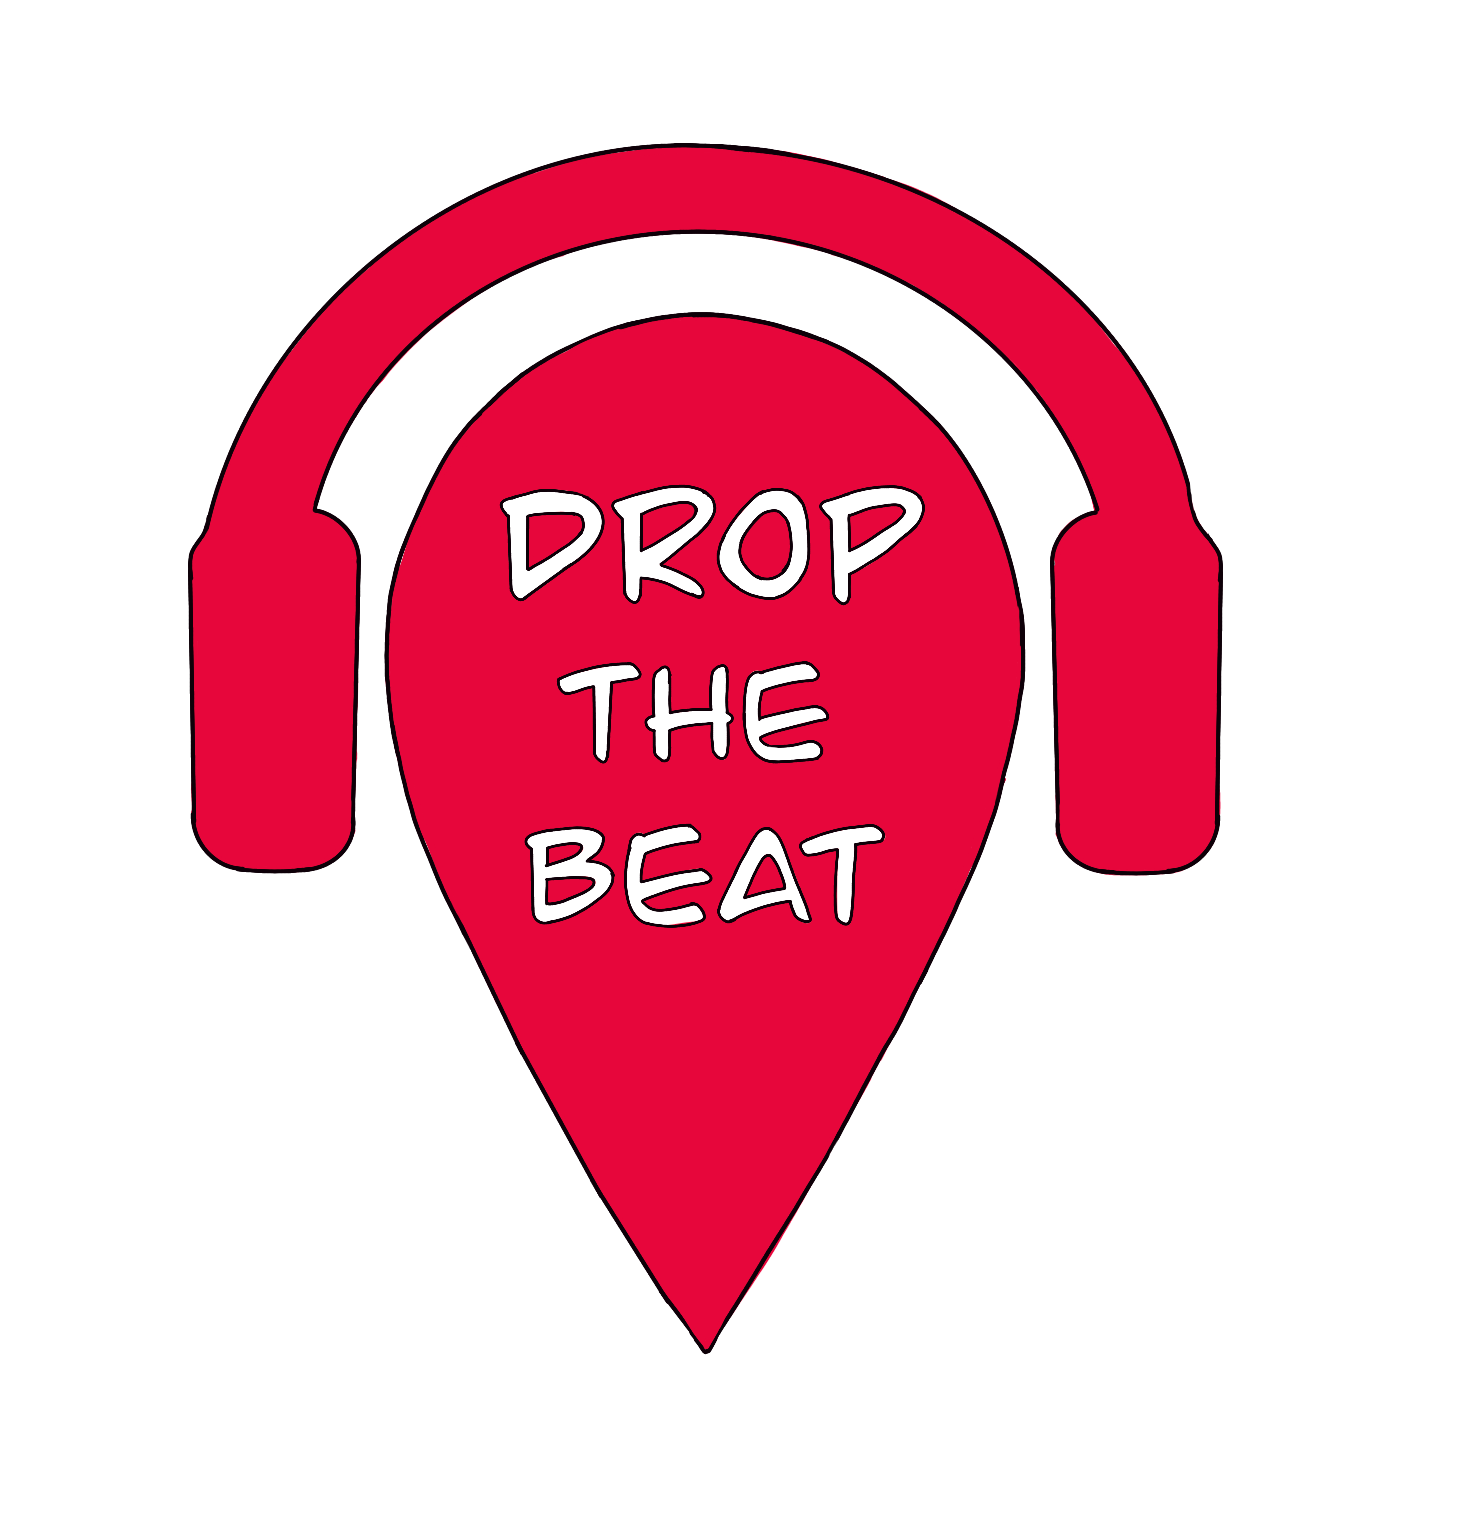
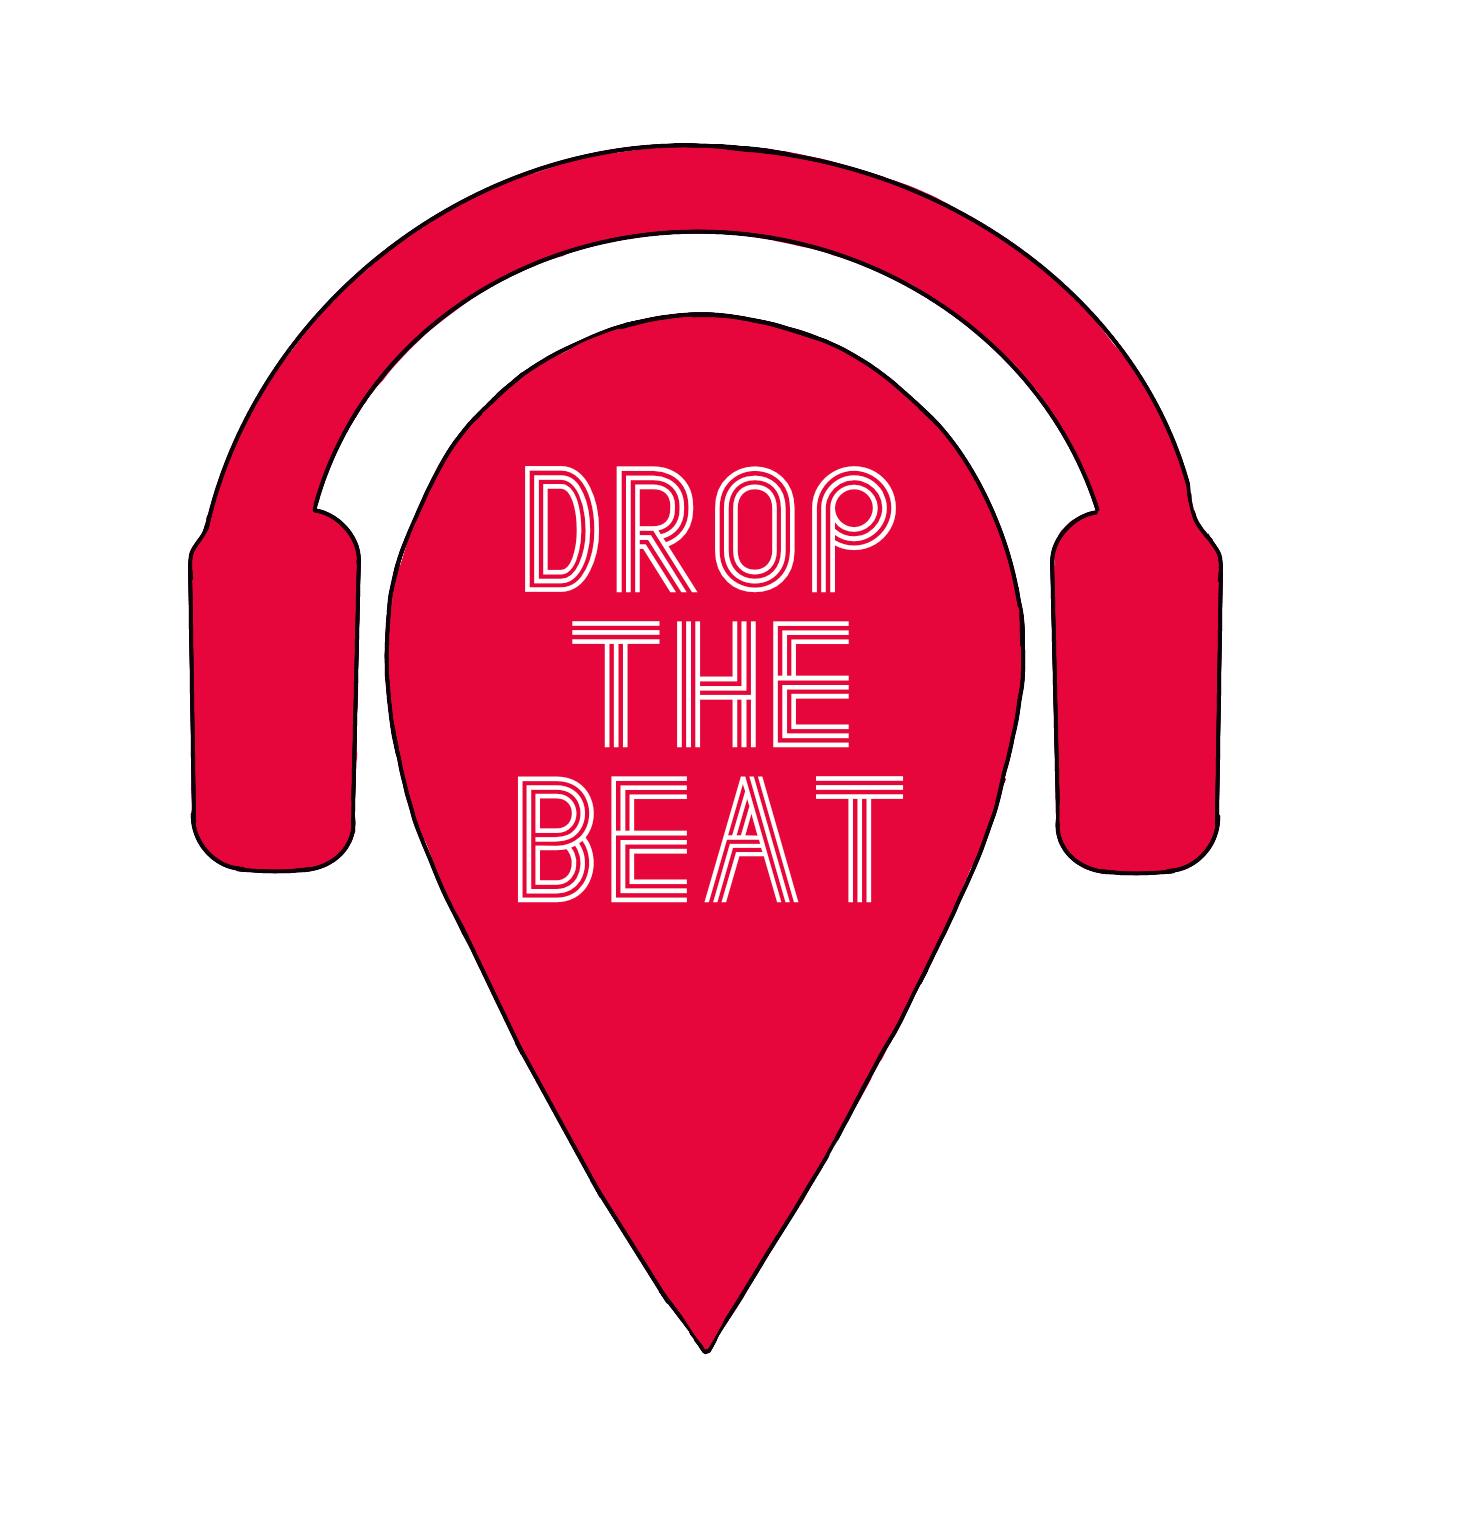
final styles complete

Changed region(s): [[0.3372, 0.2812, 0.6437, 0.625]]

diff --git a/client/components/AddPin.jsx b/client/components/AddPin.jsx
@@ -2,6 +2,7 @@ import React from 'react'
 // import { connect } from 'react-redux'
 import { Link } from 'react-router-dom'
 import { addPins } from '../api/apipins'
+import Header from './Header'
 
 class AddPin extends React.Component {
     state = {
@@ -28,10 +29,11 @@ class AddPin extends React.Component {
     render() {
         return (
             <>
+            <Header />
                 <div className='columns is-centered'>
                     <div className="column is-half">
                        
-                        <h1 className="py-4 is-size-1 has-text-white">Add a Pin</h1>
+                        <h1 className="py-4 is-size-1 has-text-white">Add a song to the map</h1>
                         
                         <div className="field">
                         <label className="has-text-white">Username</label>
@@ -43,15 +45,17 @@ class AddPin extends React.Component {
                                 onChange={this.handleChange}
                             />
                         </div>
-                        <div className="">
-                        <button className="button is-primary is-outlined">
-                        <label className="has-text-white">
-                            <a target="_blank" href="https://open.spotify.com/search">Click here to get Spotify link</a>
-                            </label>
+                        <div className="field">
+                        <button className="button is-medium">   
+                        <span className="icon is-medium">
+                        <i className="fab fa-spotify"></i>
+                        </span>
+                            <a target="_blank" href="https://open.spotify.com/search">
+                        <label className="has-text-white"> <span>Spotify</span></label></a>
                             </button>
                         </div>
                         <div className="field">
-                        <label className="has-text-white">Spotify Link</label>
+                        <label className="has-text-white">Place spotify link here</label>
                             <input
                                 className="input"
                                 type="text"
@@ -83,9 +87,9 @@ class AddPin extends React.Component {
                         <div className="field">
                             <p className="control">
                             <button 
-                                className="button has-background-danger"
+                                className="button has-background"
                                 onClick={this.handleSubmit}><Link to='/map'>
-                                <label className="has-text-white">Add Pin</label></Link>
+                                <label className="has-text-white">Add Song</label></Link>
                             </button>
                             </p>
                         </div>

diff --git a/server/public/index.html b/server/public/index.html
@@ -9,13 +9,13 @@
    integrity="sha512-xodZBNTC5n17Xt2atTPuE1HxjVMSvLVW9ocqUKLsCC5CXdbqCmblAshOMAS6/keqq/sMZMZ19scR4PsZChSR7A=="
    crossorigin=""/>
    <link rel="preconnect" href="https://fonts.gstatic.com">
-   <link href="https://fonts.googleapis.com/css2?family=Happy+Monkey&display=swap" rel="stylesheet">
+   <script src="https://kit.fontawesome.com/edc90d0acc.js" crossorigin="anonymous"></script>
    <link rel="stylesheet" href="./fonts/stylesheet.css">
    <!-- Make sure you put this AFTER Leaflet's CSS -->
   <script src="https://unpkg.com/leaflet@1.7.1/dist/leaflet.js"
   integrity="sha512-XQoYMqMTK8LvdxXYG3nZ448hOEQiglfqkJs1NOQV44cWnUrBc8PkAOcXy20w0vlaXaVUearIOBhiXZ5V3ynxwA=="
   crossorigin=""></script>
-  <title>Drop da Beat</title>
+  <title>Drop the Beat</title>
 </head>
 
 <style>

diff --git a/client/components/Home.jsx b/client/components/Home.jsx
@@ -3,6 +3,7 @@ import { connect } from 'react-redux'
 import Map from './Map'
 import { getPins } from '../api/apipins'
 import Footer from './Footer'
+import Header from './Header'
 
 class Home extends React.Component {
   state = {
@@ -20,6 +21,7 @@ class Home extends React.Component {
     const { pinsCoordinates } = this.state
     return (
       <>
+      <Header />
         <Map pinsCoordinates={pinsCoordinates} />
         <Footer />
       </> 

diff --git a/client/components/App.jsx b/client/components/App.jsx
@@ -18,7 +18,6 @@ class App extends React.Component {
       <>
         <div className="is-fullwidth py-5">
           <main className="container is-fluid">
-            <Header />
             <Route exact path='/' component={Welcome} />
             <Route path='/map' component={Home} />
             <Route path='/form' component={AddPin} />

diff --git a/client/styles/partials/_fonts.scss b/client/styles/partials/_fonts.scss
@@ -2,3 +2,20 @@ h1 {
   font-weight:normal;
   font-style:normal;
 }
+
+.fa-spotify {
+  color:white;
+}
+
+// button {
+//   font-color:white;
+// }
+
+
+//   <button class="button is-large">
+//     <span class="icon is-medium">
+//       <i class="fab fa-spotify"></i>
+//     </span>
+//     <span>Spotify</span>
+//   </button>
+// </p>

diff --git a/client/components/Welcome.jsx b/client/components/Welcome.jsx
@@ -3,10 +3,10 @@ import { Link } from 'react-router-dom'
 
 function Welcome () {
     return (
-      <div >
-            <Link to='/map'></Link>
-            <img src="images/Dropthebeaticon.png"></img>
-      </div>
+      <>
+        <Link to='/map'>
+          <img src="images/Dropthebeaticon.png"/></Link>
+      </>
     )
   }
   

diff --git a/client/styles/modules/_header.scss b/client/styles/modules/_header.scss
@@ -11,7 +11,6 @@ header {
 
 .button {
   background-color: $none;
-  font-family: 'Happy Monkey';
   font-family: 'paralinesregular', Arial, sans-serif;
   font-weight:normal;
   font-style:normal;

diff --git a/client/styles/modules/_form.scss b/client/styles/modules/_form.scss
@@ -8,7 +8,8 @@ form {
 }
 
 .button {
-  background-color: $redicon;
+  background-color: $none;
   font-weight:normal;
   font-style:normal;
+  font-color: white; 
 }
